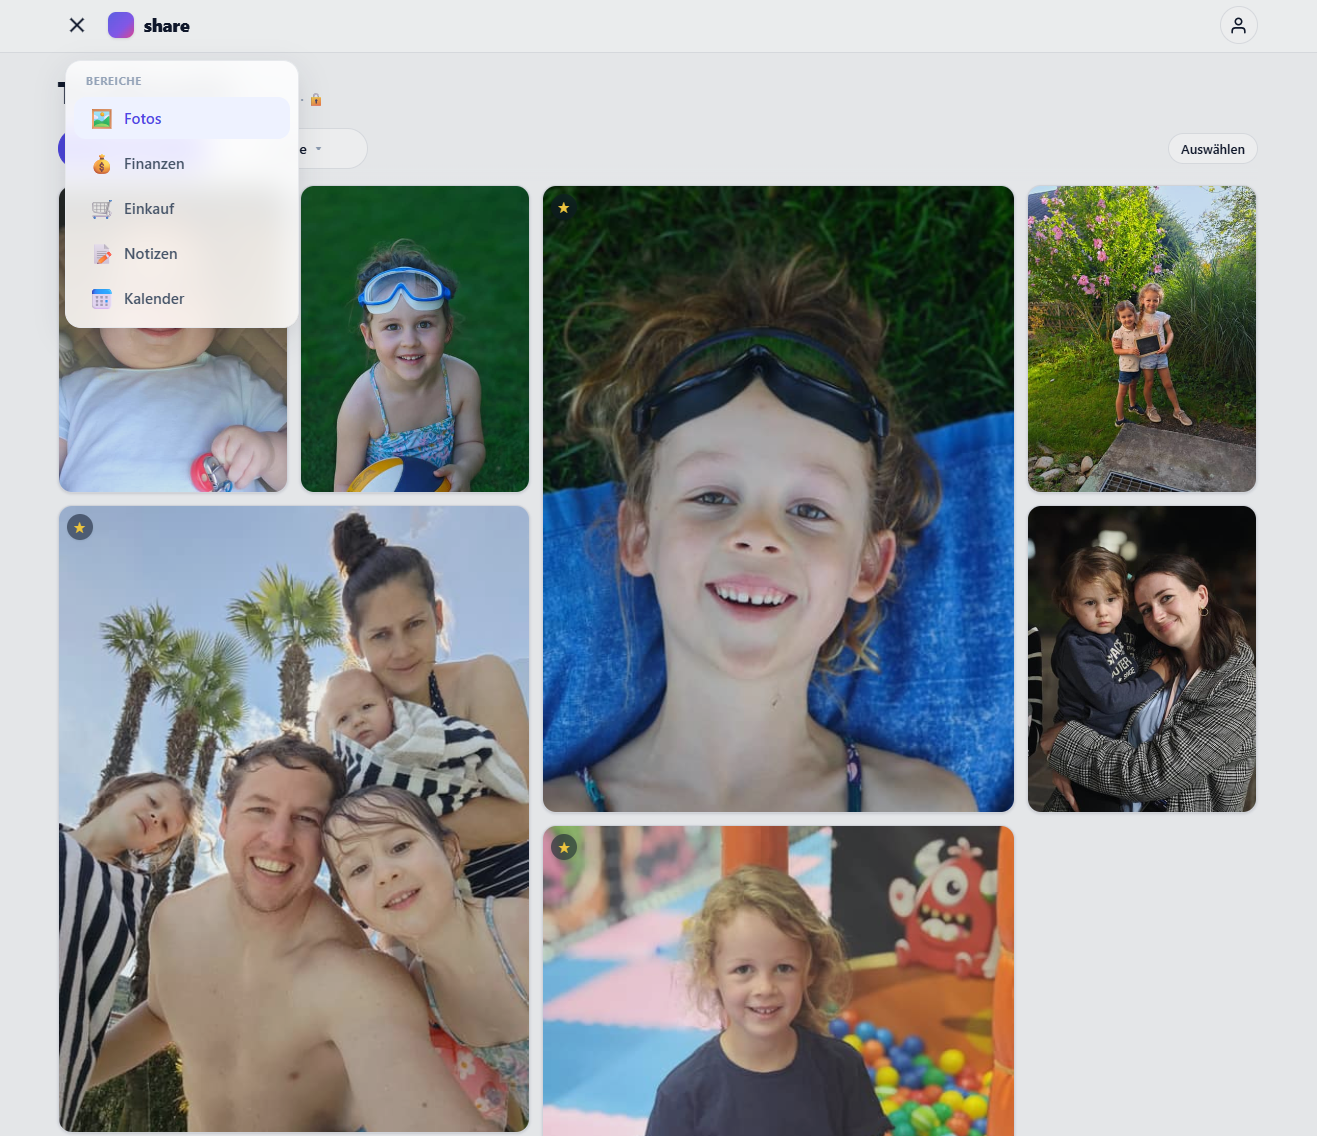
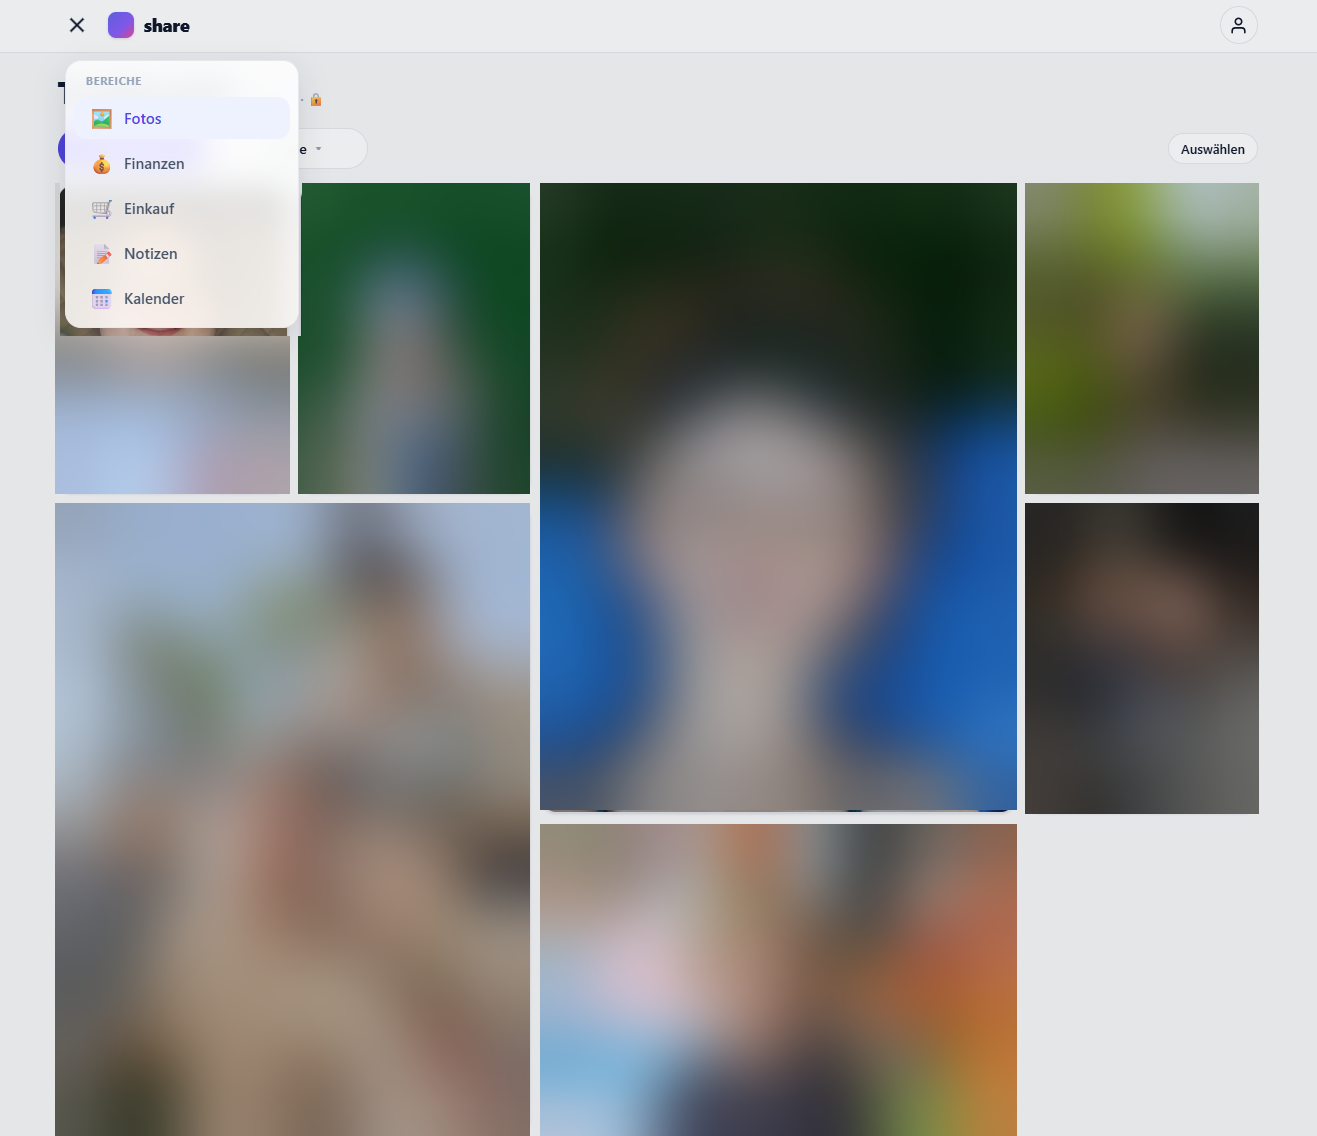
Share-App-Projekt überarbeiten, letzten Screenshot einbinden, Personen unkenntlich machen
Beim Familien-Sharing beschreiben die Texte jetzt den tatsächlichen Nutzen:
Fotos gingen bisher einzeln oder über eine Chat-Gruppe raus und kamen dort
stark komprimiert an, während Finanzen, Einkaufslisten und Termine über
verschiedene Apps liefen. Die App fasst das zusammen – Fotos und Videos in
Originalqualität, dazu zuschaltbare Bereiche für Finanzen, Einkauf, Notizen
und Kalender, eine Schlussabrechnung am Ende der Ferien und ein optionaler
Passwortschutz. Beim Datenschutz steht neu, dass Dateien und Finanzdaten auf
einem Schweizer Server liegen und keine Fotos in eine Cloud gelangen.

Im Screenshot sind sämtliche Fotos, auf denen Personen zu sehen sind, stark
weichgezeichnet. Scharf bleibt die Bedienoberfläche, insbesondere das Menü mit
den zuschaltbaren Bereichen – genau das Merkmal, das die App auszeichnet.

Beim Fotoverkauf ist die Zeile mit Name, Kindergarten und Klasse nun so stark
weichgezeichnet, dass auch die Wortlängen nicht mehr erkennbar sind.

Damit haben alle fünf Projektkarten einen echten Screenshot; der überholte
Hinweis auf Platzhalter im Kommentar der Projektsektion ist entfernt.

Claude-Session: https://claude.ai/code/session_01LjRUfW3FfsT8qTny9Sf7Sg

diff --git a/index.html b/index.html
@@ -1079,22 +1079,18 @@ form .btn{width:100%; justify-content:center}
        a) öffentlich erreichbar  -> Link zur App (.proj-open) + Badge "Live"
        b) geschützt / mit Login  -> nur Screenshots + Badge "Geschützt"
 
-     TODO: Beim DreamTeam stammen Ausgangslage und Problem von dir; Lösung,
-     Funktionsliste und Ergebnis habe ich passend dazu formuliert – bitte
-     gegenlesen. Bei den vier übrigen Apps sind alle Texte noch ein Entwurf:
-       - Ausgangslage, Problem, Lösung und Ergebnis
-       - die Liste der wichtigsten Funktionen
-       - Angaben zu Datenschutz und Hosting
+     Alle fünf Karten haben einen echten Screenshot (figure.proj-shot). Bei
+     einem Austausch daran denken: src, width, height und alt anpassen, und in
+     den Bildern der geschützten Apps müssen Gesichter und Namen erneut
+     unkenntlich gemacht werden – siehe assets/README.md.
 
-     TODO: Screenshot-Platzhalter (.shot-slot) durch echte Bilder ersetzen,
-     nach dem Muster der Karte "WM 2026 DreamTeam" (figure.proj-shot):
-       <figure class="proj-shot">
-         <img src="assets/share-uebersicht.png" width="1200" height="750" loading="lazy"
-              alt="Beschreibung dessen, was auf dem Bild zu sehen ist">
-         <figcaption>Kurze Bildunterschrift.</figcaption>
-       </figure>
-     Bei Kundenprojekten (Fotografin) vorher die Freigabe für Referenz und
-     Screenshots einholen. Details siehe assets/README.md.
+     TODO: Ausgangslage und Problem stammen bei allen fünf Apps vom Betreiber,
+     Lösung, Funktionsliste und Ergebnis sind daraus abgeleitet – bitte
+     gegenlesen, ebenso die Angaben zu Datenschutz und Hosting.
+
+     TODO: Beim Kundenprojekt (Fotografin) vor der Veröffentlichung die
+     schriftliche Freigabe für Nennung als Referenz und für den Screenshot
+     einholen.
      ===================================================================== -->
 <section id="projekte">
   <div class="wrap">
@@ -1417,8 +1413,8 @@ form .btn{width:100%; justify-content:center}
           </div>
           <p class="proj-title">Familien- und Ferien-Sharing</p>
           <p class="proj-sum">
-            Ferien gemeinsam planen: Termine, Aufgaben, Einkaufslisten, Fotos und Kosten in einer
-            App, die alle Beteiligten auch wirklich benutzen.
+            Das Gesamtpaket für gemeinsame Ferien: Fotos und Videos in Originalqualität teilen,
+            dazu bei Bedarf Finanzen, Einkauf, Notizen und Kalender – alles in einer App statt fünf.
           </p>
         </div>
         <span class="proj-toggle" aria-hidden="true">
@@ -1429,52 +1425,54 @@ form .btn{width:100%; justify-content:center}
         <div class="proj-open">
           <small>
             <strong>Kein öffentlicher Link:</strong> Die App enthält private Inhalte von Familien
-            und ist nur für eingeladene Mitglieder erreichbar. Deshalb hier nur Screenshots.
+            und ist nur für eingeladene Mitglieder erreichbar. Deshalb hier nur ein Screenshot.
           </small>
         </div>
         <div class="proj-cols">
           <div class="proj-block">
             <h4>Ausgangslage</h4>
-            <p>Mehrere Haushalte organisieren gemeinsame Ferien und Anlässe: wer kommt wann, wer bringt was, wer hat was bezahlt.</p>
+            <p>Mehrere Haushalte verbringen gemeinsam Ferien. Fotos wurden einzeln untereinander verschickt oder in einer Chat-Gruppe geteilt; Finanzen, Einkaufslisten und Termine liefen über verschiedene Apps.</p>
           </div>
           <div class="proj-block">
             <h4>Problem</h4>
-            <p>Die Informationen verteilten sich über Chats, Notizen und einzelne Kalender. Am Ende rechnete eine Person alles von Hand ab – mit entsprechendem Aufwand und Rückfragen.</p>
+            <p>Über den Chat verschickte Bilder kommen stark komprimiert und unscharf an – von den Ferienfotos bleibt wenig übrig. Und weil jeder Bereich in einer anderen App lag, musste man ständig wechseln und am Schluss die Ausgaben von Hand zusammenrechnen.</p>
           </div>
           <div class="proj-block">
             <h4>Umgesetzte Lösung</h4>
-            <p>Eine gemeinsame App pro Gruppe oder Reise: geteilter Kalender, Aufgaben- und Einkaufslisten, Fotoalbum und eine einfache Kostenteilung, die zeigt, wer wem was schuldet.</p>
+            <p>Eine App für die ganze Reise. Fotos und Videos werden hochgeladen und in Originalqualität untereinander geteilt. Weitere Bereiche – Finanzen, Einkauf, Notizen, Kalender – lassen sich bei Bedarf zuschalten und stehen sofort allen zur Verfügung. Im Bereich Finanzen tragen alle ihre Ausgaben ein; am Ende der Ferien zeigt eine Schlussabrechnung, wer wem was schuldet.</p>
           </div>
           <div class="proj-block">
             <h4>Wichtigste Funktionen</h4>
             <ul>
-              <li>Geteilter Kalender mit Zu- und Absagen</li>
-              <li>Listen für Aufgaben, Einkauf und Gepäck</li>
-              <li>Kostenteilung mit automatischem Ausgleich</li>
-              <li>Gemeinsames Fotoalbum</li>
-              <li>Einladung per Link, ohne komplizierte Registrierung</li>
+              <li>Fotos und Videos in Originalqualität teilen</li>
+              <li>Bereiche zuschalten: Finanzen, Einkauf, Notizen, Kalender</li>
+              <li>Ausgaben erfassen und am Schluss abrechnen</li>
+              <li>Passwortschutz für den Ferienbereich</li>
+              <li>Auf dem Handy bedienbar, ohne App-Store</li>
             </ul>
           </div>
           <div class="proj-block">
             <h4>Datenschutz &amp; Hosting</h4>
-            <p>Private Gruppen, Inhalte nur für eingeladene Mitglieder sichtbar, keine Weitergabe an Dritte, keine Werbung. Hosting in der Schweiz.</p>
+            <p>Alle Dateien und auch die Finanzdaten liegen auf einem Server in der Schweiz – keine Fotos in einer Cloud, keine Weitergabe an Dritte, keine Werbung. Der Zugang zum Ferienbereich lässt sich zusätzlich mit einem Passwort schützen.</p>
           </div>
           <div class="proj-block">
             <h4>Technik</h4>
             <p>Web-App, die sich auf dem Handy wie eine installierte App verhält – ohne App-Store und ohne Update-Zwang.</p>
           </div>
 
-          <!-- TODO: Screenshots nachliefern (Kalender, Listen, Kostenübersicht).
-               Vor der Veröffentlichung Namen und private Inhalte unkenntlich
-               machen oder eine Demo-Gruppe mit Beispieldaten verwenden. -->
-          <div class="shot-slot">
-            <svg viewBox="0 0 24 24" fill="none" stroke="currentColor" stroke-width="1.7" stroke-linecap="round" stroke-linejoin="round" aria-hidden="true"><rect x="3" y="4" width="18" height="16" rx="2"/><circle cx="9" cy="10" r="1.6"/><path d="m4 18 5.5-5 4 3.5L17 13l3 3"/></svg>
-            <span>Screenshot: Kalender, Listen und Kostenübersicht</span>
-          </div>
+          <!-- Die Fotos im Bild sind unkenntlich gemacht. Wird der Screenshot
+               ersetzt, muss das erneut geschehen – oder eine Demo-Gruppe mit
+               unverfänglichen Bildern verwenden. -->
+          <figure class="proj-shot">
+            <img src="assets/share.png" width="1317" height="1136" loading="lazy"
+                 alt="Fotobereich der Sharing-App mit einem Raster geteilter Bilder; links ein geöffnetes Menü, über das sich die Bereiche Fotos, Finanzen, Einkauf, Notizen und Kalender zuschalten lassen. Die Fotos sind unkenntlich gemacht.">
+            <figcaption>Geteilte Fotos, dazu das Menü zum Zuschalten weiterer Bereiche – Bilder unkenntlich gemacht.</figcaption>
+          </figure>
 
           <p class="proj-result">
-            <strong>Ergebnis:</strong> Ein Ort statt fünf Kanäle. Die Abrechnung am Schluss dauert
-            Minuten, und niemand muss mehr im Chat nach oben scrollen, um etwas zu finden.
+            <strong>Ergebnis:</strong> Ein Ort statt fünf Apps – mit Bildern in Originalqualität
+            statt in Chat-Qualität. Die Abrechnung am Ende der Ferien dauert Minuten, und niemand
+            muss mehr im Chat nach oben scrollen, um etwas zu finden.
           </p>
         </div>
       </div>

diff --git a/assets/README.md b/assets/README.md
@@ -10,6 +10,7 @@ Bilder für die Landingpage.
 | `jass-app.png` | Jass App – Startbildschirm mit beiden Betriebsarten | 965 × 375 px |
 | `pvt.png` | Volleyballturnier – Dashboard eines Teams | 1084 × 1246 px |
 | `foto-app.png` | Fotoverkauf – Galerie einer Familie | 929 × 1211 px |
+| `share.png` | Familien-Sharing – Fotobereich mit Bereiche-Menü | 1317 × 1136 px |
 
 Beim Austauschen darauf achten, dass `width` und `height` am `<img>` in
 `index.html` zur neuen Bildgrösse passen – die beiden Angaben verhindern, dass
@@ -34,20 +35,26 @@ Screenshots werden als PNG schnell unnötig gross. Zwei Stufen:
 
 | Datei | Projekt | Nötig? |
 | --- | --- | --- |
-| `share-*.png` | Familien-Sharing | **ja**, App ist geschützt |
 | `portrait.jpg` | Über mich | empfohlen |
-
-Beim Familien-Sharing vor der Veröffentlichung private Inhalte unkenntlich
-machen oder eine Demo-Gruppe mit Beispieldaten verwenden.
 
 ## Unkenntlich gemachte Inhalte
 
-In `foto-app.png` sind unkenntlich gemacht:
+Zwei Screenshots stammen aus geschützten Apps mit echten privaten Inhalten.
+Darin sind unkenntlich gemacht:
+
+**`foto-app.png`**
 
 - die sechs Kinderfotos
 - die Zeile mit Name des Kindes, Kindergarten und Klasse
 
-Wird dieser Screenshot je ersetzt, muss beides erneut geschehen. Sauberer wäre
-langfristig eine Demo-Galerie mit unverfänglichen Bildern und erfundenen Namen.
-Für die Referenz selbst empfiehlt sich zusätzlich eine schriftliche Freigabe
-der Fotografin.
+**`share.png`**
+
+- alle geteilten Fotos, auf denen Personen zu sehen sind
+
+Scharf bleiben jeweils die Bedienelemente – bei `share.png` insbesondere das
+Menü mit den zuschaltbaren Bereichen, das die App ja gerade auszeichnet.
+
+**Wird einer dieser Screenshots ersetzt, muss die Weichzeichnung erneut
+angewendet werden.** Sauberer wäre langfristig eine Demo-Ansicht mit
+unverfänglichen Bildern und erfundenen Namen. Für den Fotoverkauf empfiehlt
+sich zusätzlich eine schriftliche Freigabe der Fotografin.

diff --git a/README.md b/README.md
@@ -32,16 +32,12 @@ Alle Stellen sind in `index.html` mit `TODO` markiert:
 - [ ] **E-Mail-Adresse** – `kontakt@alae.app` (im Kontaktbereich, im Footer, in der
       Konstante `EMPFAENGER` im Skript und in den strukturierten Daten)
 - [ ] **Telefonnummer** – Platzhalter `+41000000000` ersetzen oder den Block löschen
-- [x] **Screenshots DreamTeam, Jass, Volleyball und Fotoverkauf** – eingebunden
-      (Hinweise zu Bild- und Dateigrösse in `assets/README.md`)
-- [ ] **Projekttexte prüfen** – bei DreamTeam, Jass, Volleyball und Fotoverkauf stammen
-      Ausgangslage und Problem von dir, Lösung, Funktionsliste und Ergebnis sind daraus
-      abgeleitet und gegenzulesen. Beim Familien-Sharing sind alle Texte noch ein Entwurf
+- [x] **Screenshots aller fünf Projekte** – eingebunden; bei den beiden geschützten
+      Apps sind Gesichter und Namen unkenntlich gemacht (Details in `assets/README.md`)
+- [ ] **Projekttexte prüfen** – bei allen fünf Apps stammen Ausgangslage und Problem
+      von dir, Lösung, Funktionsliste und Ergebnis sind daraus abgeleitet und
+      gegenzulesen
 - [ ] **Freigabe der Fotografin** für die Nennung als Referenz und den Screenshot einholen
-- [ ] **Weitere Screenshots** – restliche `.shot-slot`-Platzhalter durch `figure.proj-shot`
-      ersetzen, Muster siehe DreamTeam- oder Jass-Karte. Offen ist noch das
-      Familien-Sharing; private Inhalte vorher unkenntlich machen oder Demodaten
-      verwenden
 - [ ] **Portrait** – `.portrait` durch `<img src="assets/portrait.jpg" alt="…">` ersetzen
 - [ ] **Impressum und Datenschutzerklärung** – eigene Seiten anlegen und die
       Footer-Links darauf zeigen lassen (in der Schweiz erwartet, für Werbung nötig)
